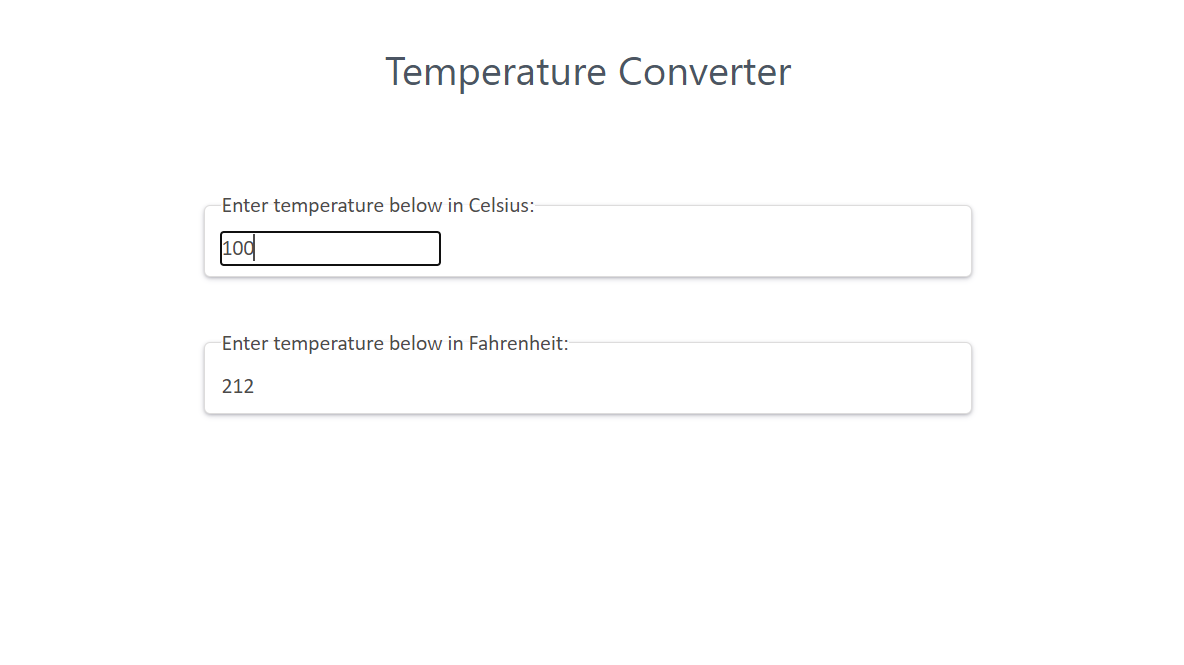
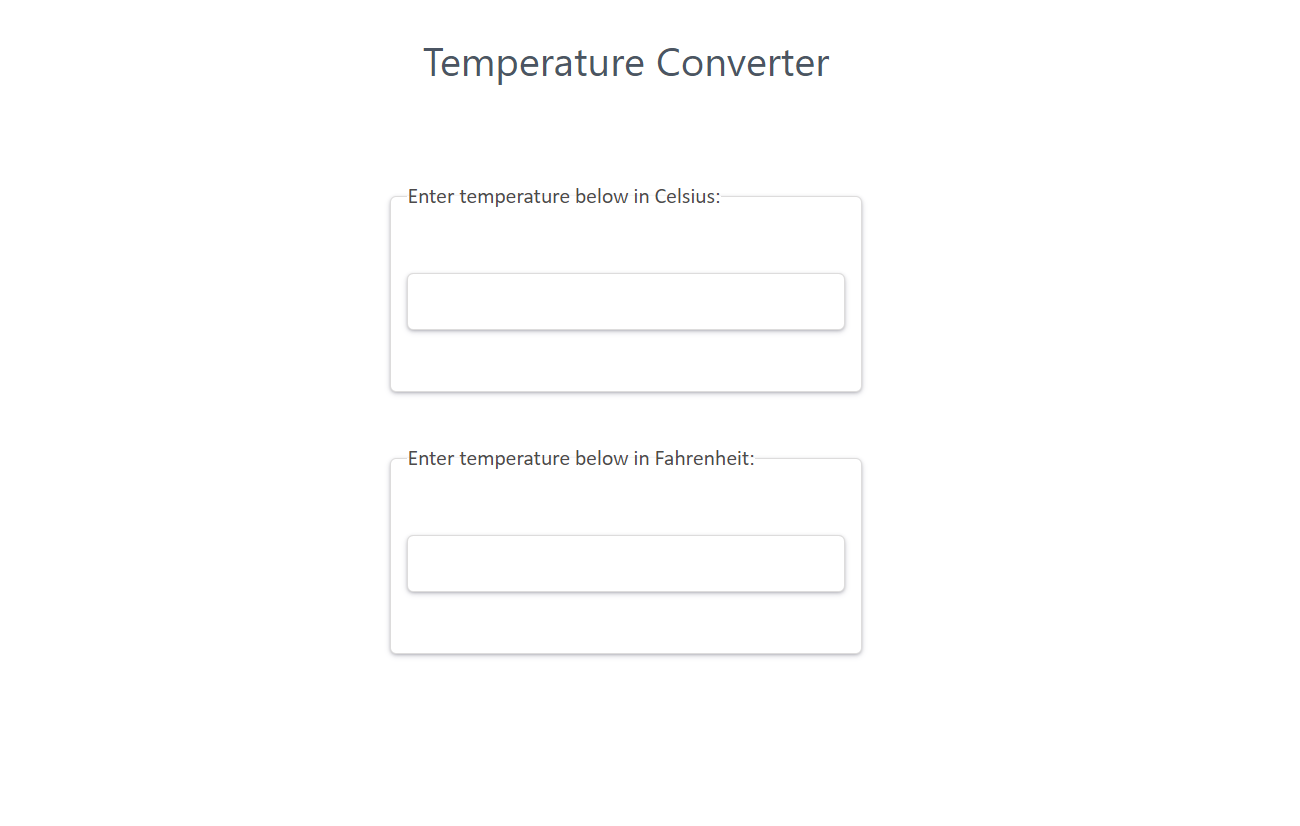
Some Changes in css file

diff --git a/MainConverter.js b/MainConverter.js
@@ -13,17 +13,14 @@ export default function MainConverter() {
     }
 
     const celsius = scaled === 'f' ? converter(tempValue, toCelsius) : tempValue
+    console.log(celsius);
     const fahrenheit = scaled === 'c' ? converter(tempValue, toFahrenheit) : tempValue
 
     return (
         <>  
             <h1 className="convertTitle">Temperature Converter</h1>
             <TempConverter scale="c" onChangeHandler={onChangeHandler} temp={celsius} />
-            <TempConverter
-                scale="f"
-                onChangeHandler={onChangeHandler}
-                temp={fahrenheit}
-            />
+            <TempConverter scale="f" onChangeHandler={onChangeHandler} temp={fahrenheit}/>
             
         </>
     )

diff --git a/TempConverter.js b/TempConverter.js
@@ -8,7 +8,7 @@ export default function TempConverter({ scale, onChangeHandler, temp }) {
         <legend>Enter temperature below in {parameter[scale]}:</legend>
         <input
           type="text"
-          className=""
+          className="convert"
           value={temp}
           onChange={(e) => onChangeHandler(e, scale)}
         />

diff --git a/converter.css b/converter.css
@@ -8,7 +8,7 @@
 .convert {
   display: block;
   cursor: pointer;
-  width: 40%;
+  width: 20em;
   font-size: 2ch;
   font-family: 'Gill Sans', 'Gill Sans MT', Calibri, 'Trebuchet MS', sans-serif;
   padding: 1ch 1.5ch;
